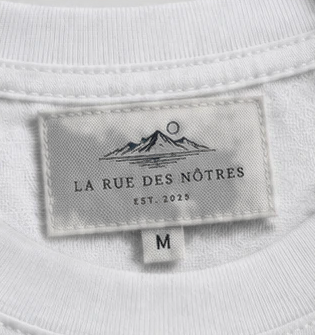
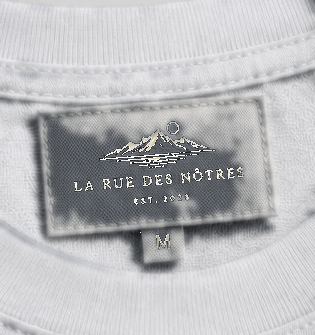
Ajuster Beige et Gris pour matcher la planche de référence fournie
Le Beige était trop doré/saturé par rapport à la planche partagée, et le
Gris (renommé "Gris Bleu") était un gris neutre plus clair que le gris
bleuté froid et plus foncé de la référence. Teintes échantillonnées
directement sur l'image fournie et réinjectées dans la palette.

Sur Gris Bleu, le logo brodé et l'impression dos passent maintenant en
crème clair comme sur Noir (même logique que Noir : la référence montre
elle aussi l'encre en blanc sur ce coloris, le marine perdait trop de
contraste sur un fond aussi foncé) — seul Beige garde l'encre marine
d'origine.

Claude-Session: https://claude.ai/code/session_01JcT3HfdB21VBu6dsokyrCK

diff --git a/src/data/products.ts b/src/data/products.ts
@@ -21,8 +21,8 @@ export type Colorway = {
 
 const COLORWAY_DEFS: { slug: ColorwaySlug; name: string; hex: string }[] = [
   { slug: "blanc", name: "Blanc", hex: "#fefefe" },
-  { slug: "beige", name: "Beige", hex: "#c9b995" },
-  { slug: "gris", name: "Gris", hex: "#9d9d9d" },
+  { slug: "beige", name: "Beige", hex: "#cec6bb" },
+  { slug: "gris", name: "Gris Bleu", hex: "#5f6369" },
   { slug: "noir", name: "Noir", hex: "#151515" },
 ];
 

diff --git a/scripts/recolor-catalog.py b/scripts/recolor-catalog.py
@@ -34,8 +34,8 @@ VIEWS = ["front", "back", "detail-logo", "detail-collar", "detail-shoulder"]
 PRODUCTS = ["basique", "special"]
 
 COLORWAYS = {
-    "beige": "#c9b995",
-    "gris": "#9d9d9d",
+    "beige": "#cec6bb",
+    "gris": "#5f6369",
     "noir": "#151515",
 }
 LIGHT_INK = "#f3f1ea"  # matches --ink in globals.css
@@ -137,9 +137,11 @@ def recolor_image(src_path: Path, out_path: Path, colorway_hex: str, colorway_sl
     fabric_mask = g_mask - ink_mask
 
     result = recolor_region(arr, fabric_mask, colorway_hex)
-    if colorway_slug == "noir":
+    if colorway_slug in ("noir", "gris"):
+        # Noir and Gris Bleu are both dark enough that navy ink loses too
+        # much contrast against them — flip to the light cream instead.
         result = recolor_region(result, ink_mask, LIGHT_INK)
-    # else: ink stays as-is (dark navy reads fine on Beige/Gris)
+    # else (Beige): ink stays as-is, dark navy reads fine on a light base.
 
     Image.fromarray(np.clip(result, 0, 255).astype(np.uint8)).save(out_path)
 
